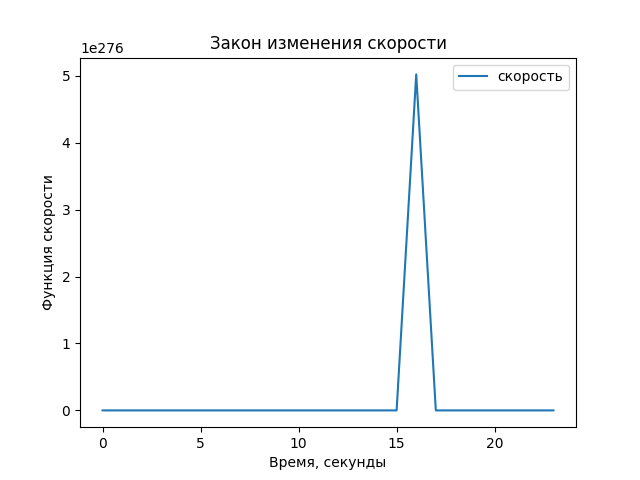
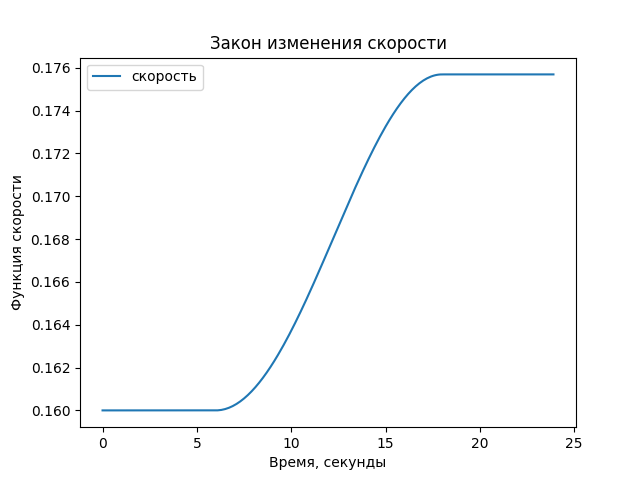
BB

diff --git a/lab_1_extratask2.py b/lab_1_extratask2.py
@@ -4,14 +4,12 @@ import matplotlib.pyplot as plt
 
 S_0 = 0.16
 E_0 = 1360
-k = 0.000039
+k = 0.00005
 S =[]
 
-t = np.arange(0, 24, 1)
+t = np.arange(0, 24, 0.1)
 
 for i in np.arange(0, 24, 0.1):
-    print()
-    print(i)
     if i >= 6 and i <= 18:
         alpha = abs(12-i)*15 * np.pi/180
         dSdt = k * E_0*np.cos(alpha)*np.sqrt((S_0**3)/np.pi)
@@ -19,22 +17,24 @@ for i in np.arange(0, 24, 0.1):
         dSdt = 0
     S_0 += dSdt
     S.append(S_0)
-    print(S_0)
+    if i == 12:
+        k = 0.25/(S_0)*k
+        print(k)
 
-print(S)
+S_0 = 0.16
 
-# def func_victoria_rega(S, t):
-#     print(t)
-#     if t >= 6 and t <= 18:
-#         alpha = abs(12-t)*15 * np.pi/180
-#         dsdt = k*E_0*np.cos(alpha)*np.sqrt((S**3)/np.pi)
-#     else:
-#         dsdt = 0
-#     return dsdt
-# 
-# S_t = odeint(func_victoria_rega, S_0, t)
-# 
-plt.plot(t, S, label="скорость")
+def func_victoria_rega(S, t):
+    print(t)
+    if t >= 6 and t <= 18:
+        alpha = abs(12-t)*15 * np.pi/180
+        dsdt = k * E_0*np.cos(alpha)*np.sqrt((S**3)/np.pi)
+    else:
+        dsdt = 0
+    return dsdt
+
+S_t = odeint(func_victoria_rega, S_0, t)
+
+plt.plot(t, S_t, label="Площадь")
 plt.xlabel("Время, секунды")
 plt.ylabel("Функция скорости")
 plt.title("Закон изменения скорости")
